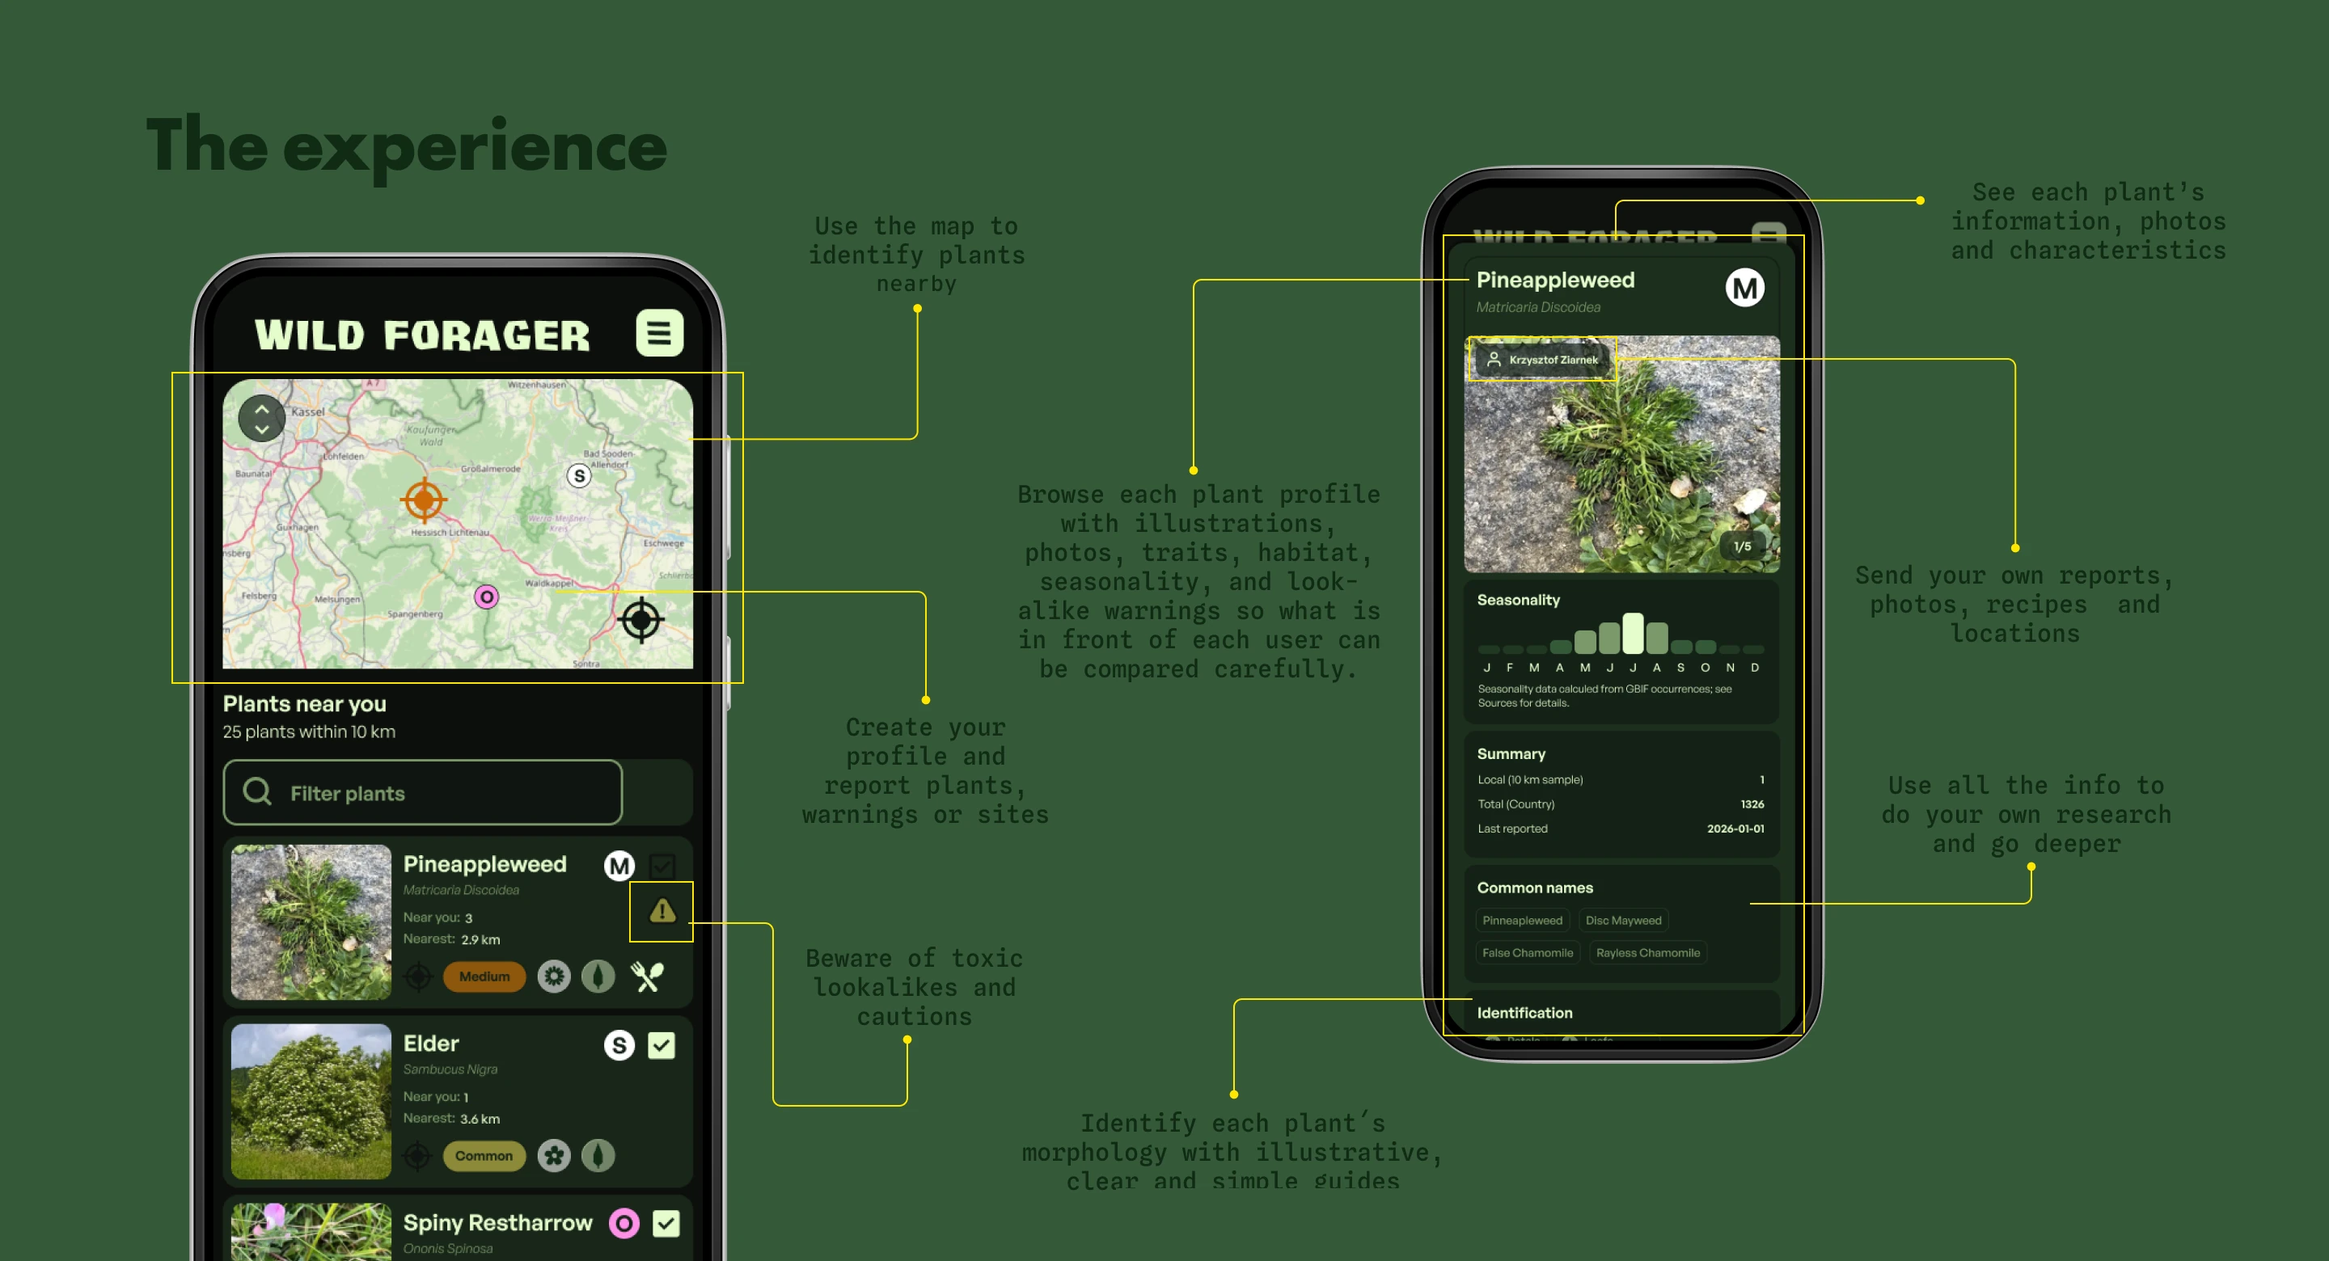
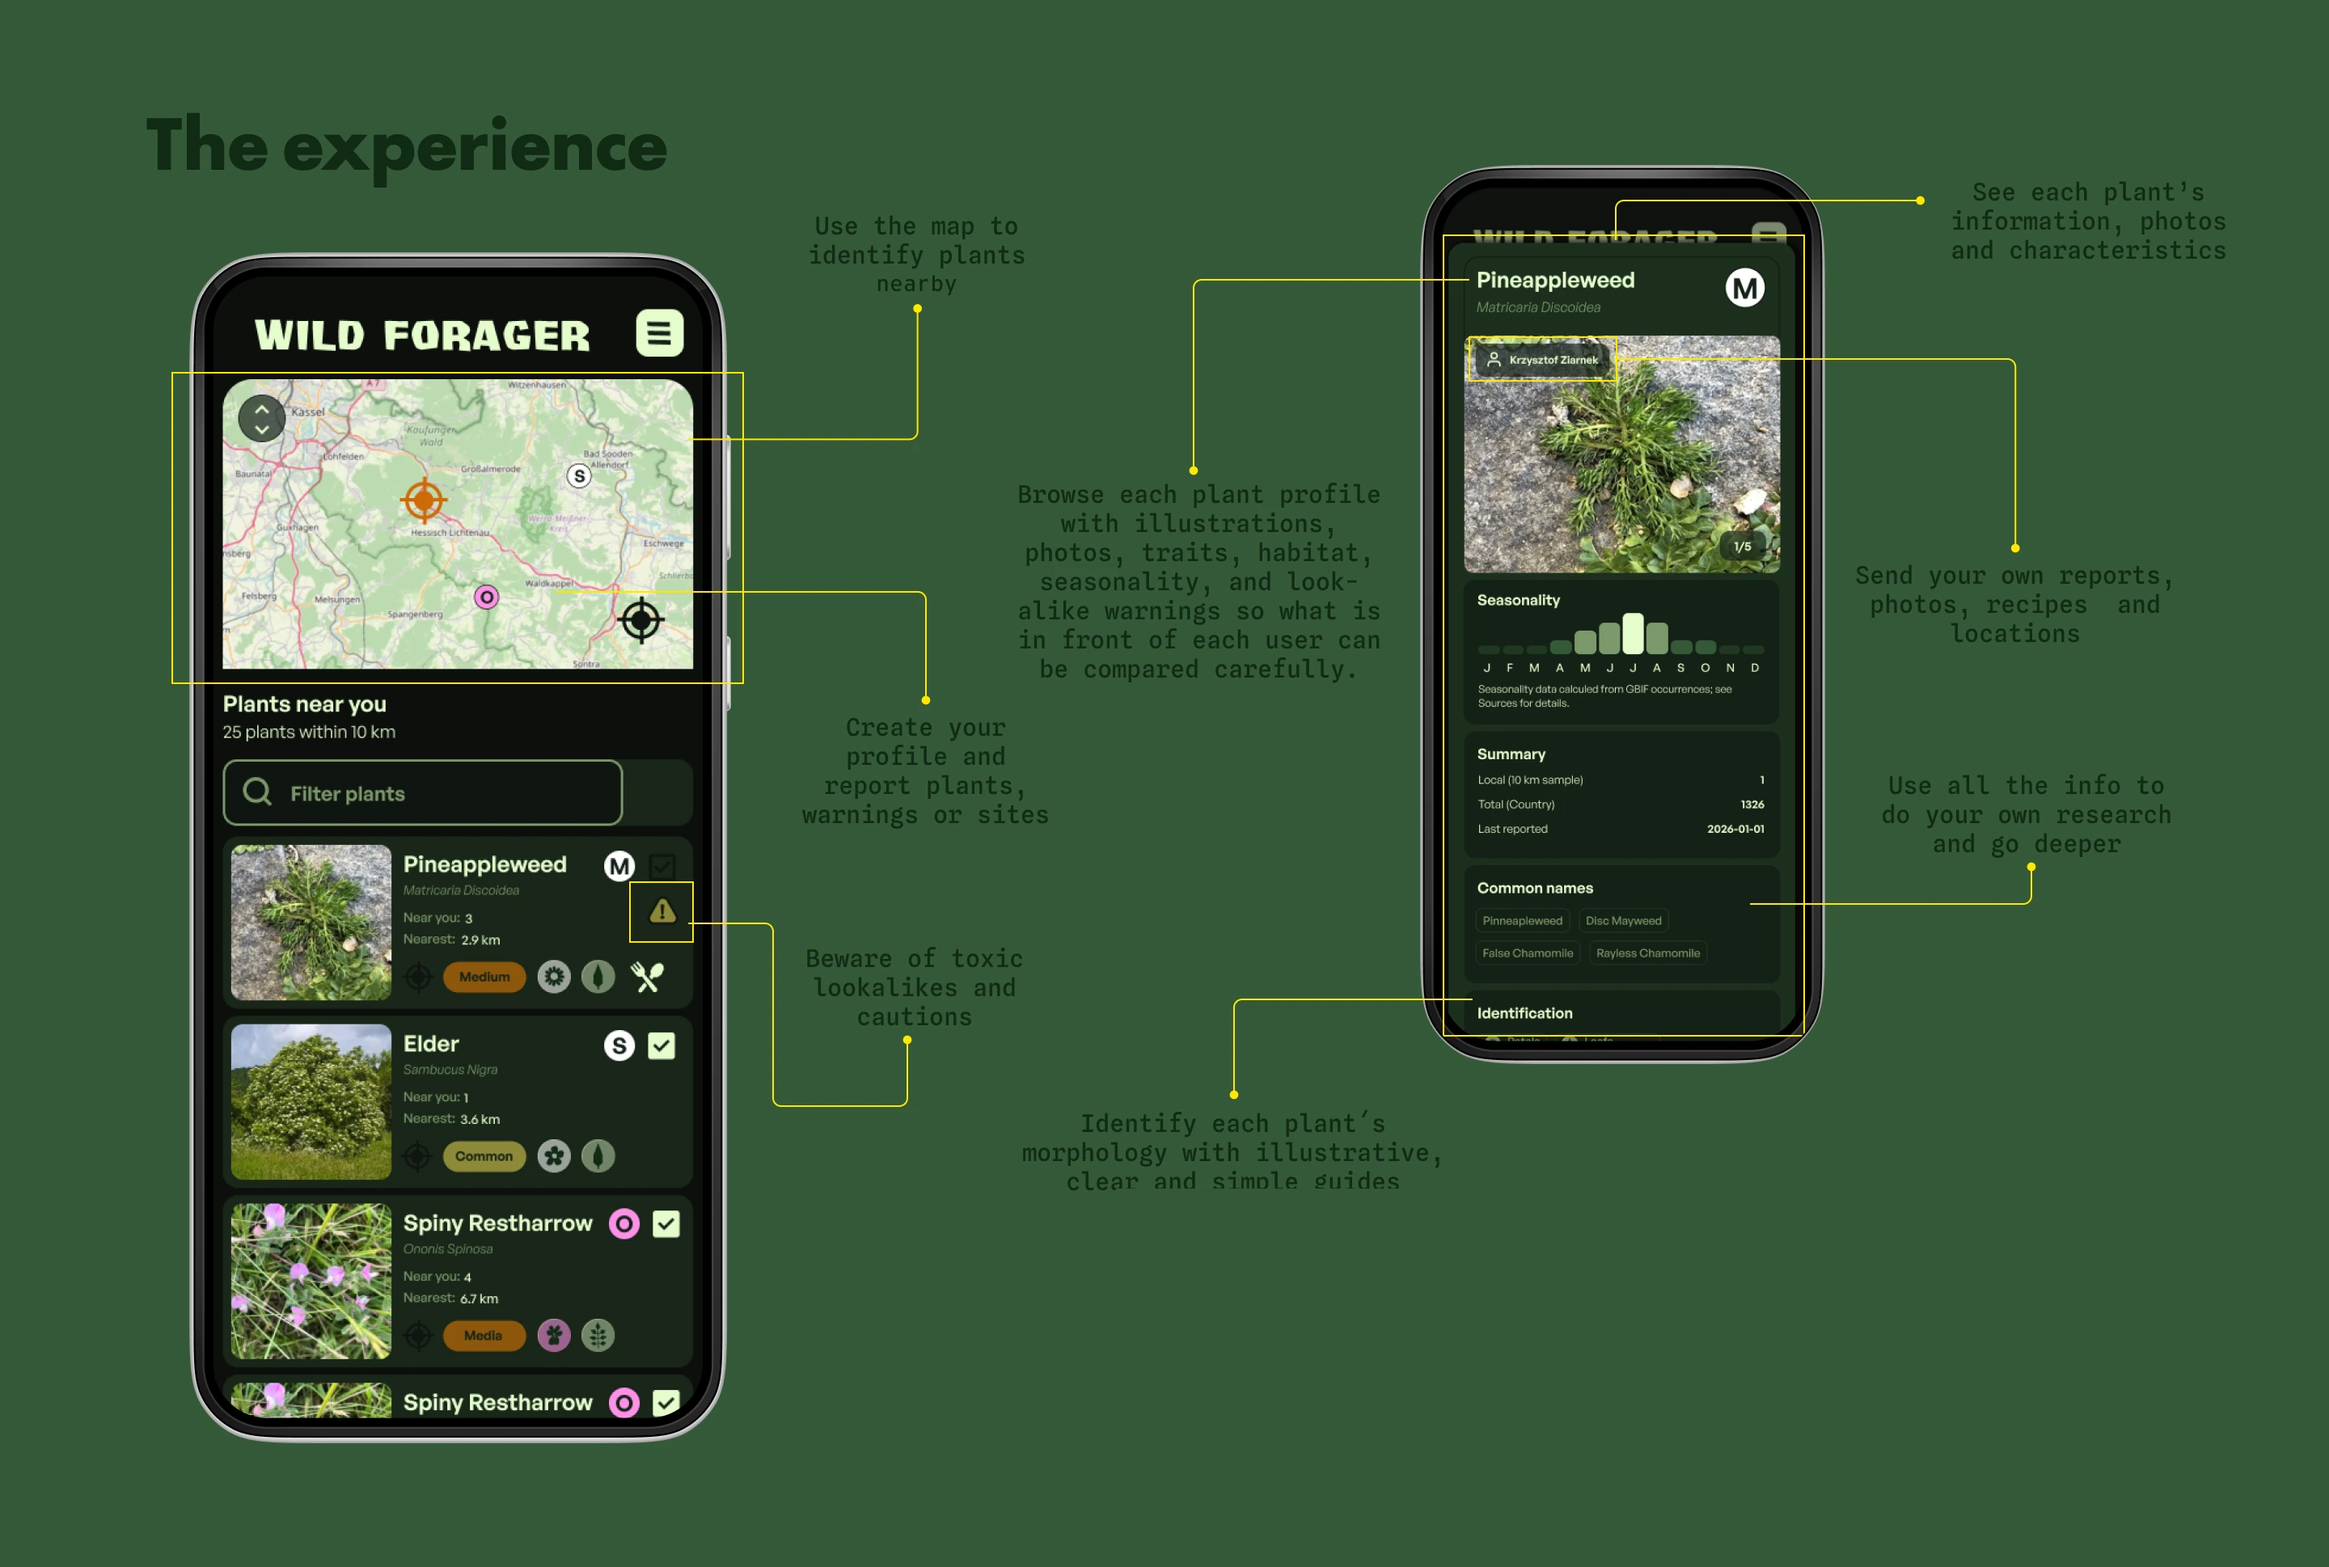
Wild Forager: phones in the frames open as the bare screen; fix cropped experience frame

diff --git a/js/project-blocks.js b/js/project-blocks.js
@@ -345,7 +345,7 @@
         mint: { bg: "#e4fdcd", fg: "#102b15", accent: "#5c9b37" },
       },
       blocks: [
-        { type: "full", tone: "forest", edge: true, image: wf("frame-notice", 2880, 1504, "You probably walk past edible wild plants all the time without noticing them. Wild Forager helps users notice their surroundings again.") },
+        { type: "full", tone: "forest", edge: true, spots: [{ src: "assets/projects/wild-forager/c/scr-home.webp", alt: "Plants near you: map and plant list", x: 16.39, y: 6.65, w: 20.83, h: 82.45 }], image: wf("frame-notice", 2880, 1504, "You probably walk past edible wild plants all the time without noticing them. Wild Forager helps users notice their surroundings again.") },
         {
           type: "gallery", tone: "moss", cols: 2,
           title: "Moodboards & Refs",
@@ -376,7 +376,7 @@
           type: "gallery", tone: "forest", cols: 3, contain: true,
           images: [wf("badge-1", 700, 701, "Round badge, dark"), wf("badge-2", 700, 701, "Round badge, green"), wf("badge-3", 700, 700, "Round badge, light")],
         },
-        { type: "full", tone: "moss", edge: true, image: wf("frame-experience", 2880, 1560, "The experience: the map, plant profile and the app's key moments, with annotations") },
+        { type: "full", tone: "moss", edge: true, spots: [{ src: "assets/projects/wild-forager/c/scr-home.webp", alt: "Plants near you: map and plant list", x: 9.03, y: 17.54, w: 21.53, h: 58.82 }, { src: "assets/projects/wild-forager/c/scr-plant.webp", alt: "Plant profile: Pineappleweed", x: 61.81, y: 12.9, w: 15.62, h: 49.54 }], image: wf("frame-experience", 2880, 1938, "The experience: the map, plant profile and the app's key moments, with annotations") },
         {
           type: "gallery", tone: "moss", cols: 9, contain: true, icons: true, circles: true,
           text: "Type of flowers · Type of leafs",

diff --git a/project.html b/project.html
@@ -12,7 +12,7 @@
   <!-- Tumb, licensed through Maria's Adobe Fonts (Creative Cloud) web project -->
   <link rel="preconnect" href="https://use.typekit.net" crossorigin />
   <link rel="stylesheet" href="https://use.typekit.net/sxu4bkt.css" />
-  <link rel="stylesheet" href="css/styles.css?v=202611122344" />
+  <link rel="stylesheet" href="css/styles.css?v=202611122345" />
 </head>
 <body>
   <svg width="0" height="0" style="position:absolute" aria-hidden="true">
@@ -35,8 +35,8 @@
     <a href="#top" onclick="scrollTo({top:0,behavior:'smooth'});return false;">Back to top ↑</a>
   </footer>
 
-  <script defer src="js/projects.js?v=202611122344"></script>
-  <script defer src="js/project-blocks.js?v=202611122344"></script>
-  <script defer src="js/project.js?v=202611122344"></script>
+  <script defer src="js/projects.js?v=202611122345"></script>
+  <script defer src="js/project-blocks.js?v=202611122345"></script>
+  <script defer src="js/project.js?v=202611122345"></script>
 </body>
 </html>

diff --git a/index.html b/index.html
@@ -13,7 +13,7 @@
   <!-- Tumb, licensed through Maria's Adobe Fonts (Creative Cloud) web project -->
   <link rel="preconnect" href="https://use.typekit.net" crossorigin />
   <link rel="stylesheet" href="https://use.typekit.net/sxu4bkt.css" />
-  <link rel="stylesheet" href="css/styles.css?v=202611122344" />
+  <link rel="stylesheet" href="css/styles.css?v=202611122345" />
 </head>
 <body>
 
@@ -216,7 +216,7 @@
     <a href="#top">Back to top ↑</a>
   </footer>
 
-  <script defer src="js/projects.js?v=202611122344"></script>
-  <script defer src="js/main.js?v=202611122344"></script>
+  <script defer src="js/projects.js?v=202611122345"></script>
+  <script defer src="js/main.js?v=202611122345"></script>
 </body>
 </html>
